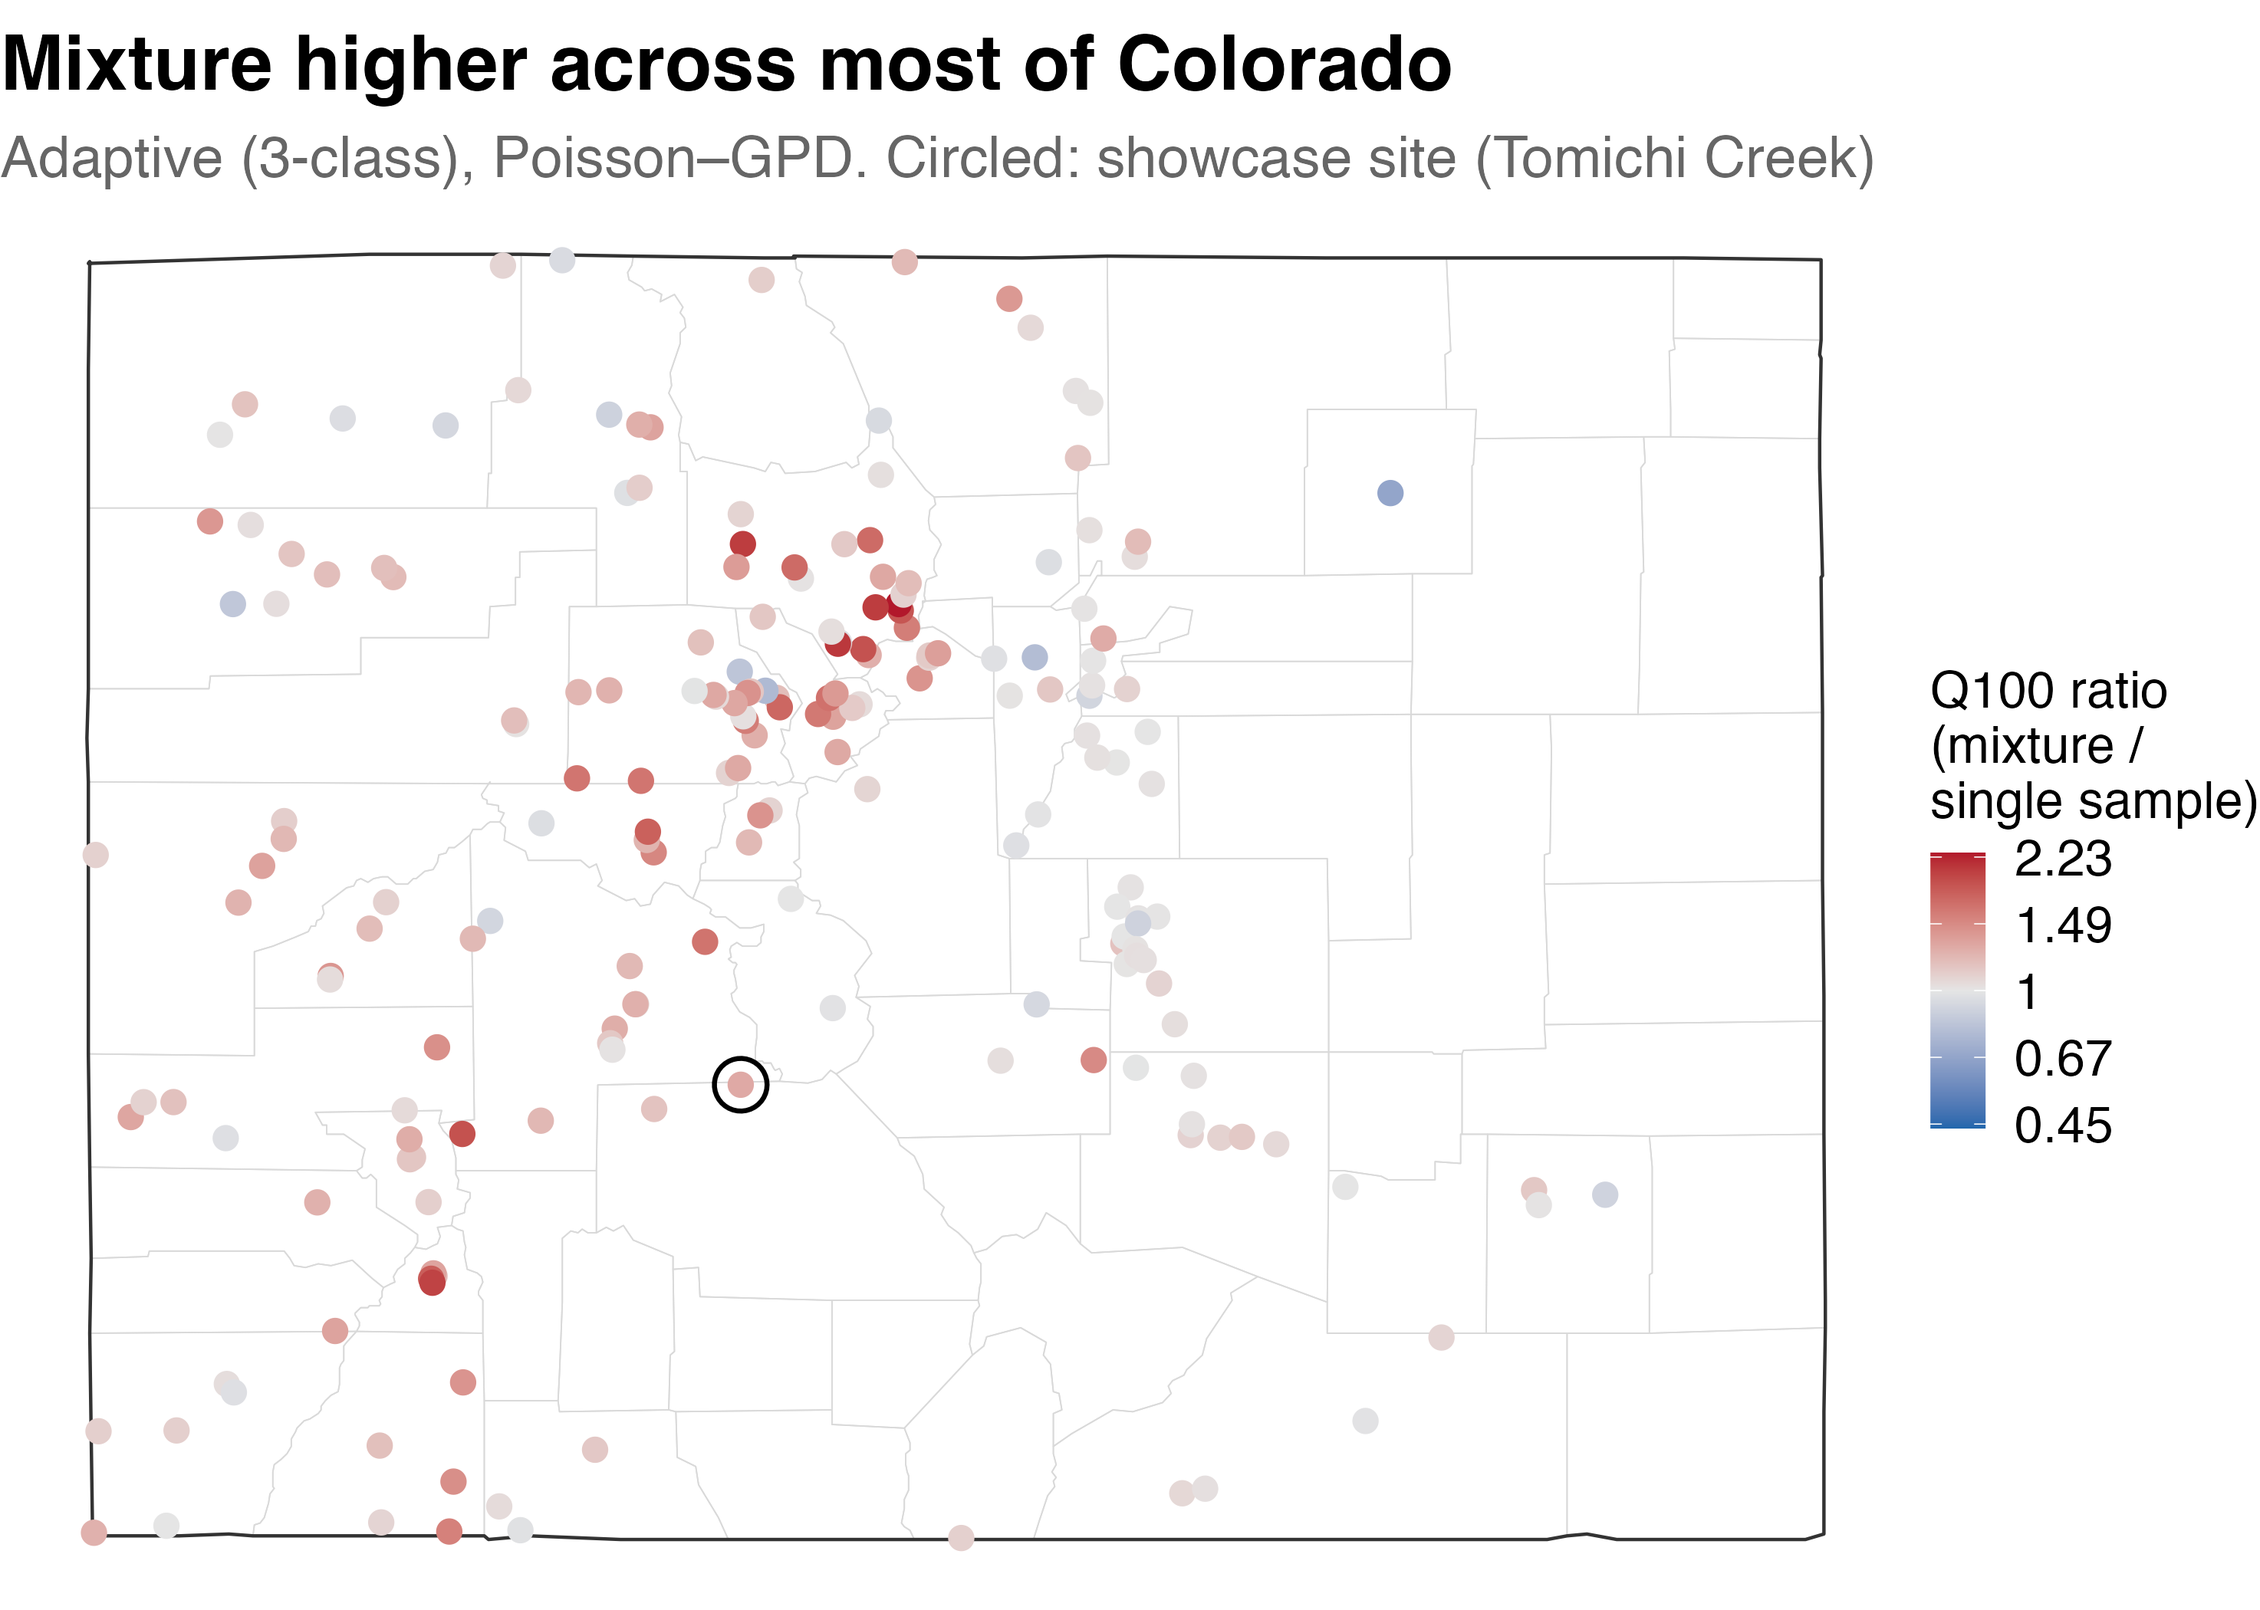
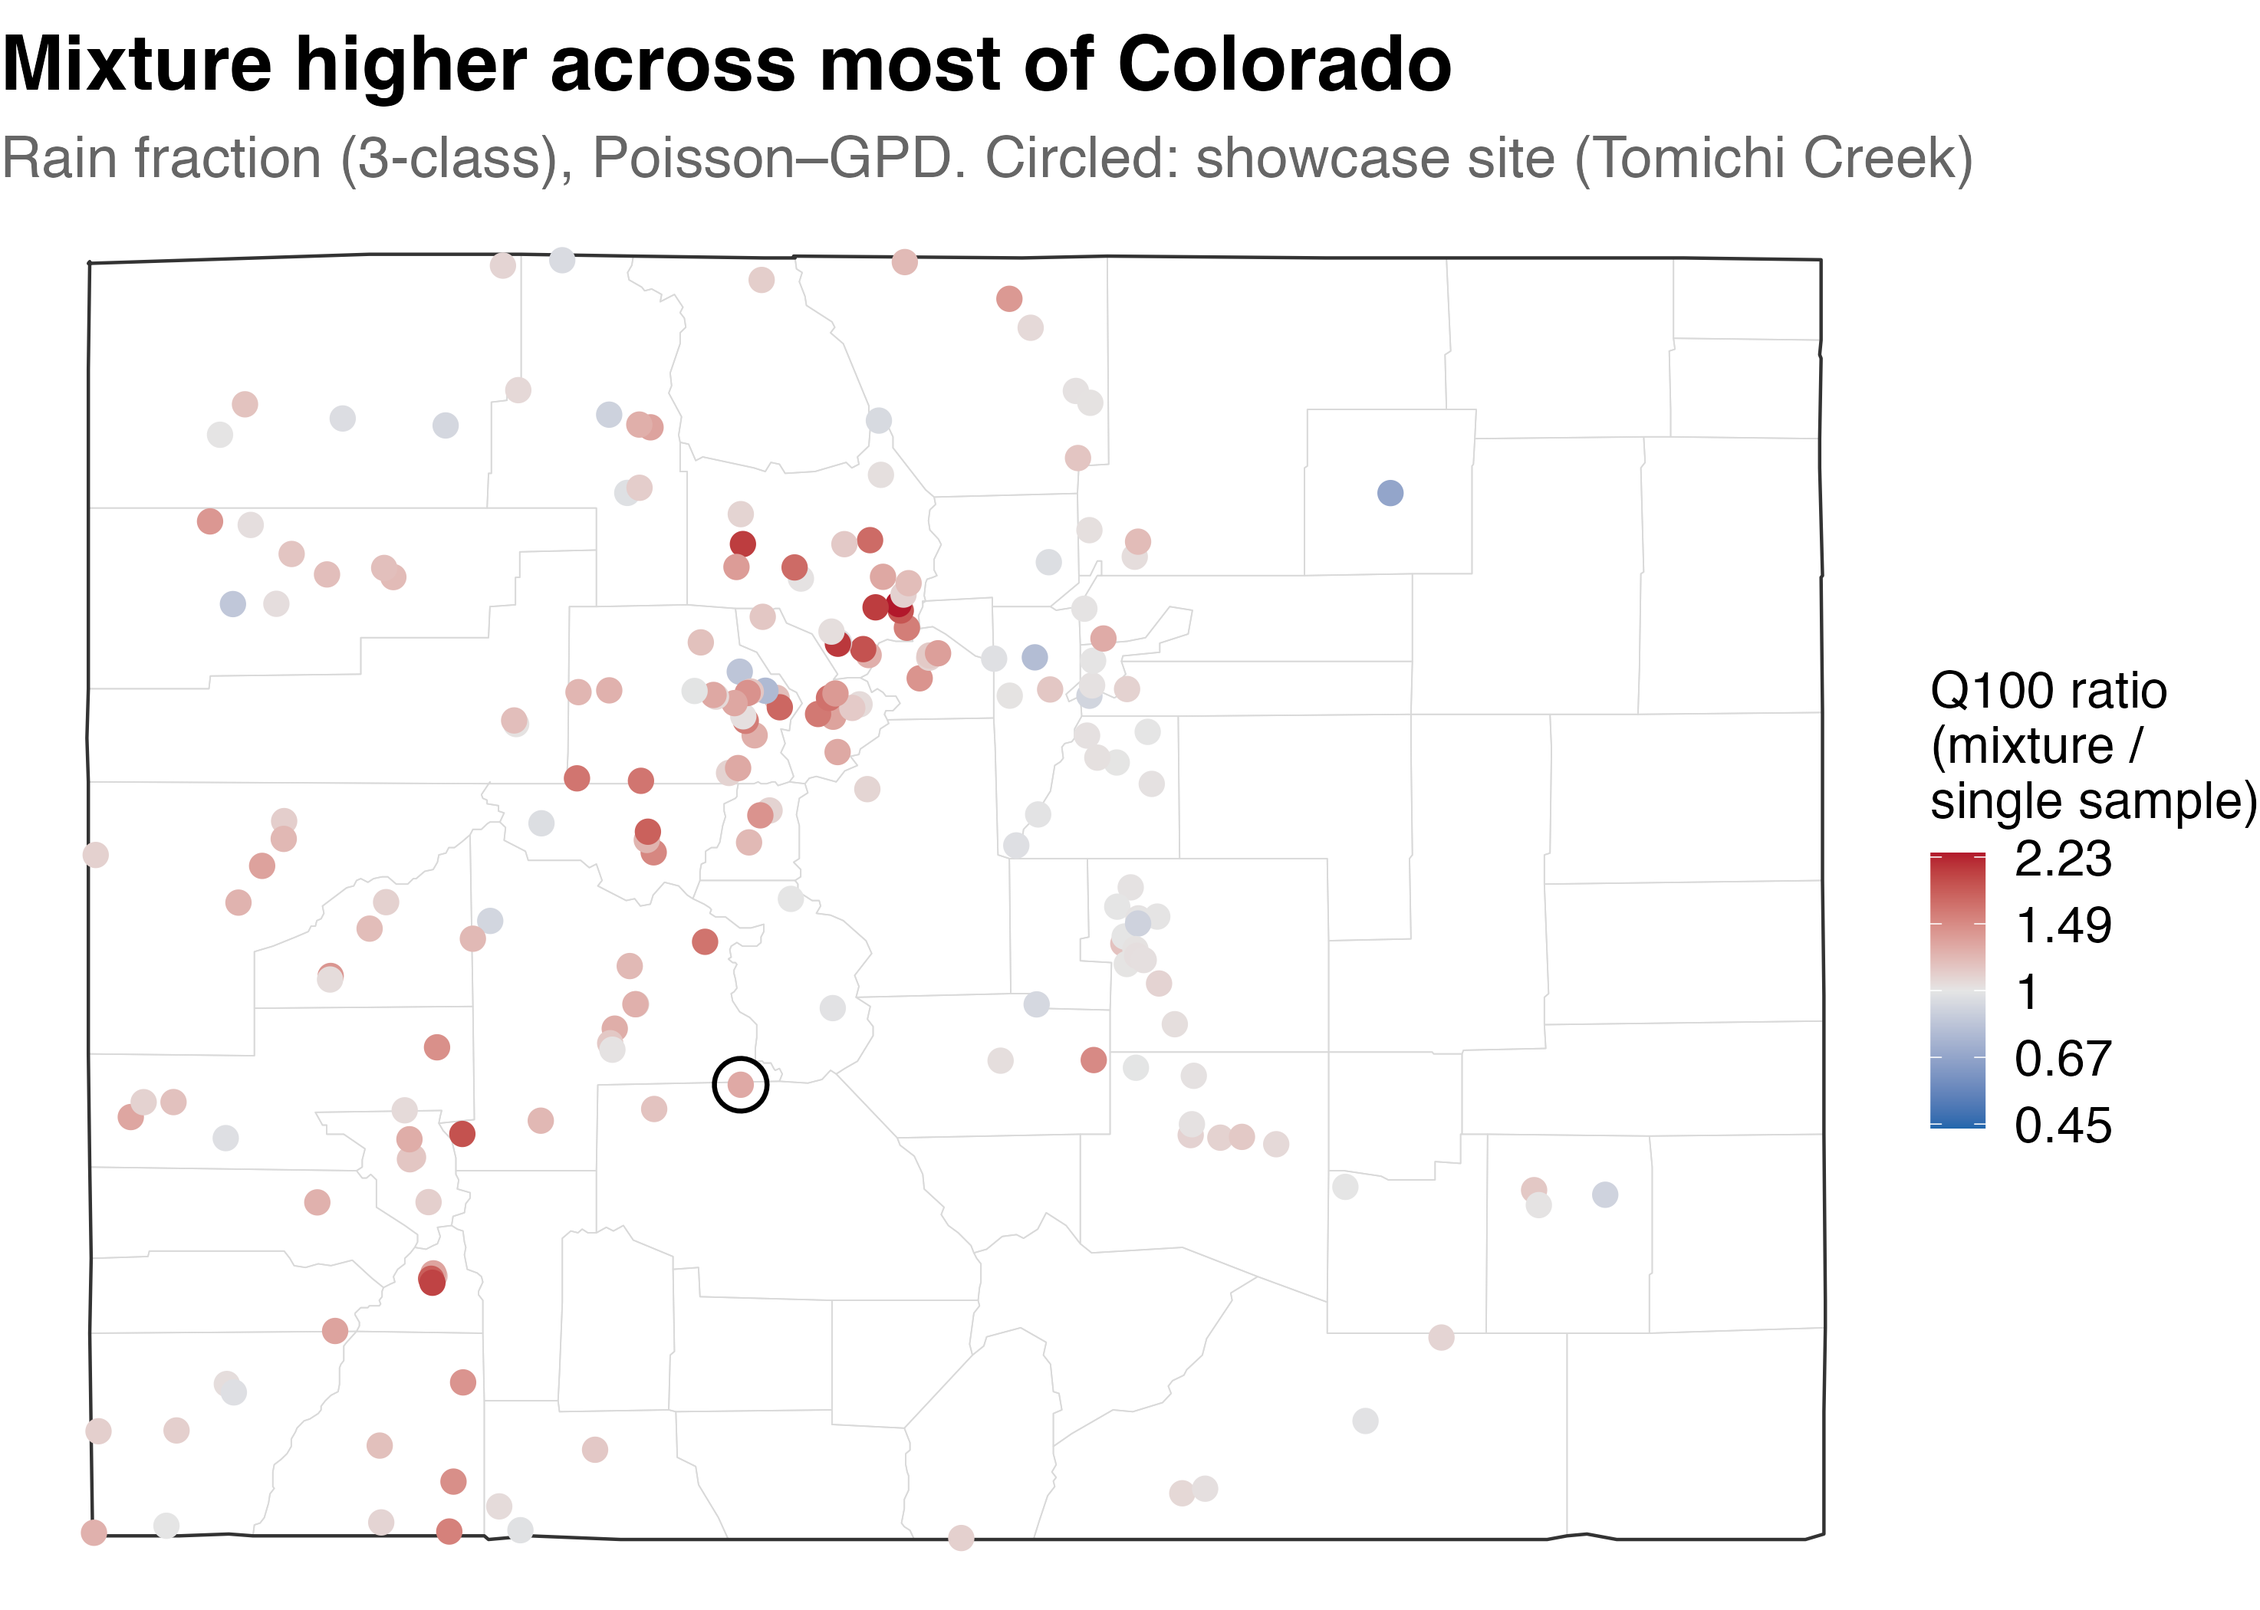
Poster: dashboard/proposal labels (depth threshold, rain fraction, Snow-Influenced); striped 2-class fill

Changed region(s): [[0.0, 0.0619, 0.8741, 0.1238]]

diff --git a/_documentation/poster_wireframe/build.js b/_documentation/poster_wireframe/build.js
@@ -105,7 +105,7 @@ const tree = (x0, y0, w) => {
   arrow(cx + dw / 2, r3, ox - ew / 2, r3, "Yes", cx + dw / 2 + 0.1, r3 - 0.42);
   node(pres.shapes.OVAL, "Snowmelt", cx, r4, ew, eh, C_SNOW, "FFFFFF", true);
   arrow(cx, r3 + dh / 2, cx, r4 - eh / 2, "No", cx + 0.1, r3 + dh / 2);
-  text("2-class: Rain-on-Snow + Snowmelt = Non-Rainfall", x0, r4 + eh / 2 + 0.05, w, 0.45,
+  text("2-class: Rain-on-Snow + Snowmelt = Snow-Influenced", x0, r4 + eh / 2 + 0.05, w, 0.45,
        { fontSize: 16, italic: true, color: MUTED, align: "center" });
   return r4 + eh / 2 + 0.55;
 };
@@ -118,8 +118,8 @@ x = colX(1); y = TOP;
 y = header("At Tomichi Creek, the mixture rises above the single sample for rare floods", x, y, W2);
 y = fig("showcase/09115500_A_fixed_vs_adaptive3.png", x, y, W2, 3000 / 300);
 bullets([
-  "Fixed misses many peaks, so its mixture falls below observed common floods; Adaptive tracks the observations",
-  "100-yr mixture / single sample: 1.30 (Adaptive 3-class) vs 1.16 (Fixed)",
+  "The depth threshold method misses many peaks, so its mixture falls below observed common floods; the rain fraction method tracks the observations",
+  "100-yr mixture / single sample: 1.30 (rain fraction, 3-class) vs 1.16 (depth threshold)",
 ], x, y + 0.05, W2, 1.4, 22);
 y += 1.45 + G;
 
@@ -127,7 +127,7 @@ y = header("Estimates agree for common floods and diverge for rare ones", x, y, 
 fig("04_ratio_by_return_period.png", x, y, W, 2100 / 300);
 y = fig("06_ratio_map_q100.png", x + W + G, y, W, 2100 / 300) + 0.2;
 const stats = [["85%", "of sites: mixture > single sample at 100 yr"],
-               ["+10%", "median difference at 100 yr (Adaptive 3-class)"],
+               ["+10%", "median difference at 100 yr (rain fraction, 3-class)"],
                ["~0%", "median difference at 2 yr"]];
 const sw = (W2 - 2 * G) / 3, sh = 2.2;
 stats.forEach(([big, small], i) => {
@@ -140,7 +140,7 @@ y += sh + 0.15;
 text([{ text: "Robust to analysis choices: ", options: { bold: true } },
       { text: "median 100-yr ratio 1.05–1.28 across fitting thresholds and 1.10–1.16 across rain-fraction cutoffs. " },
       { text: "Depends on classification: ", options: { bold: true } },
-      { text: "Fixed 1.16, Adaptive 3-class 1.10, Adaptive 2-class 1.01, so separating rain-on-snow from snowmelt drives most of it." }],
+      { text: "depth threshold 1.16, rain fraction 3-class 1.10, rain fraction 2-class 1.01, so separating rain-on-snow from snowmelt drives most of it." }],
      x, y, W2, BOT - y, { fontSize: 20 });
 
 // ---- column 4: elevation, flood type, takeaways, next steps ----

diff --git a/_planning/agu2026_poster_outline.md b/_planning/agu2026_poster_outline.md
@@ -5,6 +5,9 @@
 > `_documentation/poster_showcase.R`; numbers are from the M1 Poisson–GPD outputs (Script 7).
 > Related: `agu2026_interim_plan.md` (decisions D-A … D-F, the QR pin).
 
+> Labels follow the dashboard and proposal (depth threshold / rain fraction; snow-influenced), not the
+> Hydrology Days talk (Fixed / Adaptive; non-rainfall). Flood-type colours match the dashboard.
+
 ## Header
 
 - **Title:** A Regional Mixed-Population Flood Frequency Analysis: Insights from Colorado
@@ -34,32 +37,32 @@
   area).
 - **Classification:** WLDAS (Noah-MP) rainfall and snowmelt fluxes summed over an antecedent window
   that scales with basin size.
-  - *Adaptive*: antecedent rain fraction. Rainfall ≥ 0.99; the remaining "mixed" events split at
-    the network median into rain-on-snow and snowmelt (3-class), or kept together as non-rainfall
+  - *Rain fraction*: antecedent rain fraction. Rainfall ≥ 0.99; the remaining "mixed" events split at
+    the network median into rain-on-snow and snowmelt (3-class), or kept together as snow-influenced
     (2-class).
-  - *Fixed*: the antecedent depth thresholds of earlier work, for comparison.
+  - *Depth threshold*: the antecedent depth thresholds of earlier work, for comparison.
 - **Frequency model:** Poisson–GPD per flood type (L-moments; threshold ≈ one exceedance per
   qualifying year, ≥ 20 exceedances). The mixture multiplies the types' annual-maximum distributions.
   It is compared with a single Poisson–GPD fitted to all peaks. Return periods are annual.
 - **Visuals:** the antecedent-window plot and decision tree from the talk (check they don't say
   206), plus `poster_figures/02_composition_by_method.png`.
-  - Callout: *Adaptive classification labels ~98% of peaks, vs ~55% for Fixed.*
+  - Callout: *The rain fraction method labels ~98% of peaks, vs ~55% for the depth threshold method.*
 
 ## 3. Example site: Tomichi Creek at Sargents (09115500)
 
 - **Figure:** `poster_figures/showcase/09115500_A_fixed_vs_adaptive3.png`.
   - Optional: `09115500_B_adaptive3_vs_adaptive2.png`.
 - **Message:**
-  - Fixed misses many peaks, so its mixture falls below observed common floods.
-  - Adaptive tracks the observations.
+  - The depth threshold method misses many peaks, so its mixture falls below observed common floods.
+  - The rain fraction method tracks the observations.
   - The mixture rises above the single sample for rarer floods: 100-yr mixture/single 1.30
-    (Adaptive 3-class) vs 1.16 (Fixed).
+    (rain fraction, 3-class) vs 1.16 (depth threshold).
 
 ## 4. Network results (the core)
 
 1. **Headline:** `poster_figures/04_ratio_by_return_period.png`.
    - *Mixture and single-sample estimates agree for common floods but diverge for rare ones.*
-   - At 100 yr the mixture is higher at 85% of sites (median +10%, Adaptive 3-class).
+   - At 100 yr the mixture is higher at 85% of sites (median +10%, rain fraction 3-class).
    - At 2 yr it is higher at about 27% of sites (median −2%).
 2. **Elevation:** NEW panel, to build. Q100 ratio vs mean basin elevation, or a box plot by band.
    - Median ratio 1.03 below 2,500 m, 1.11 at 2,500–3,000 m, 1.26 above 3,000 m.
@@ -72,14 +75,14 @@
 5. **Robustness:** one line or a small inset; detail in `14_`/`15_` as backup.
    - The divergence holds across fitting thresholds (median Q100 ratio 1.05–1.28) and rain-fraction
      cutoffs (1.10–1.16).
-   - It depends on classification: Fixed 1.16, Adaptive 3-class 1.10, Adaptive 2-class 1.01. So
+   - It depends on classification: depth threshold 1.16, rain fraction 3-class 1.10, rain fraction 2-class 1.01. So
      separating rain-on-snow from snowmelt drives most of it.
 - **Context (text):** 91% of sites (196/215) have at least two flood types each making up ≥ 10% of
   their peaks.
 
 ## 5. Takeaways
 
-1. Floods at nearly all Colorado gages come from more than one process. Adaptive rain-fraction
+1. Floods at nearly all Colorado gages come from more than one process. Rain fraction
    classification labels nearly every peak.
 2. Mixed-population and single-sample estimates agree for common floods and diverge for rare ones.
    The mixture is higher at most sites by the 100-yr flood, most strongly above 3,000 m.
